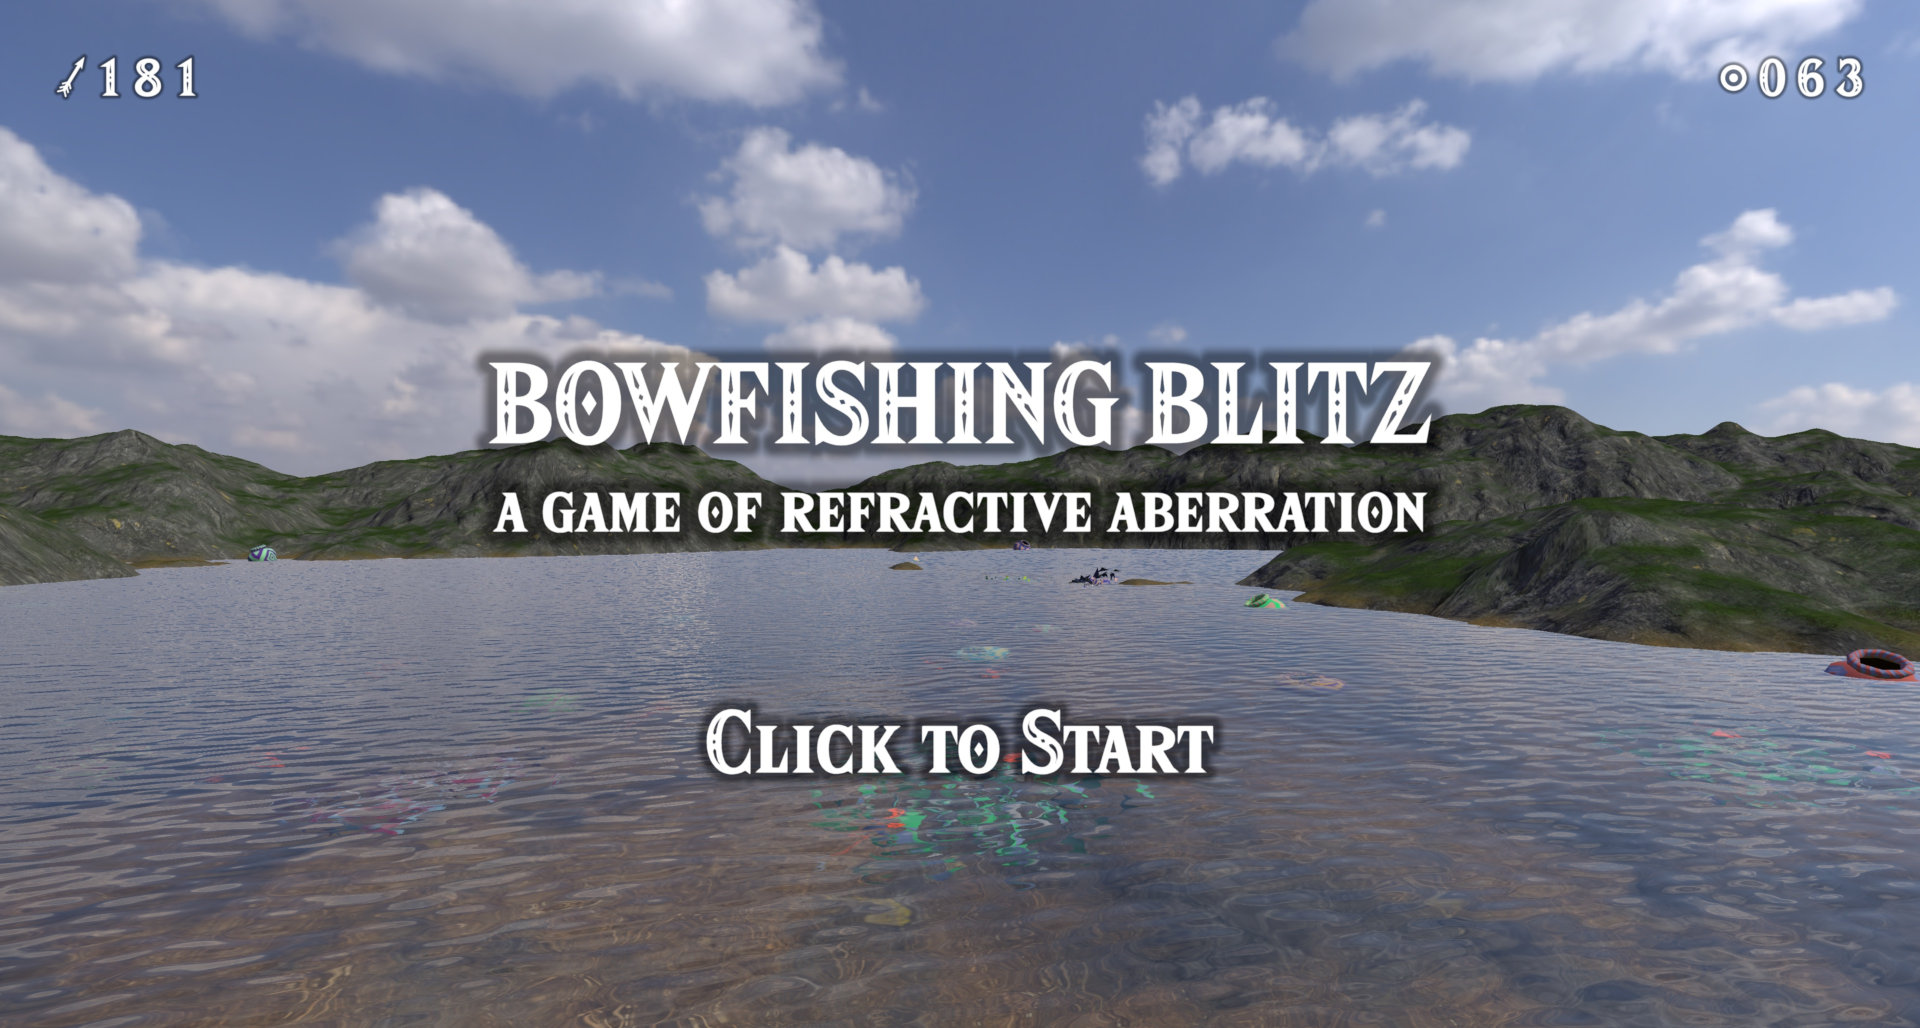
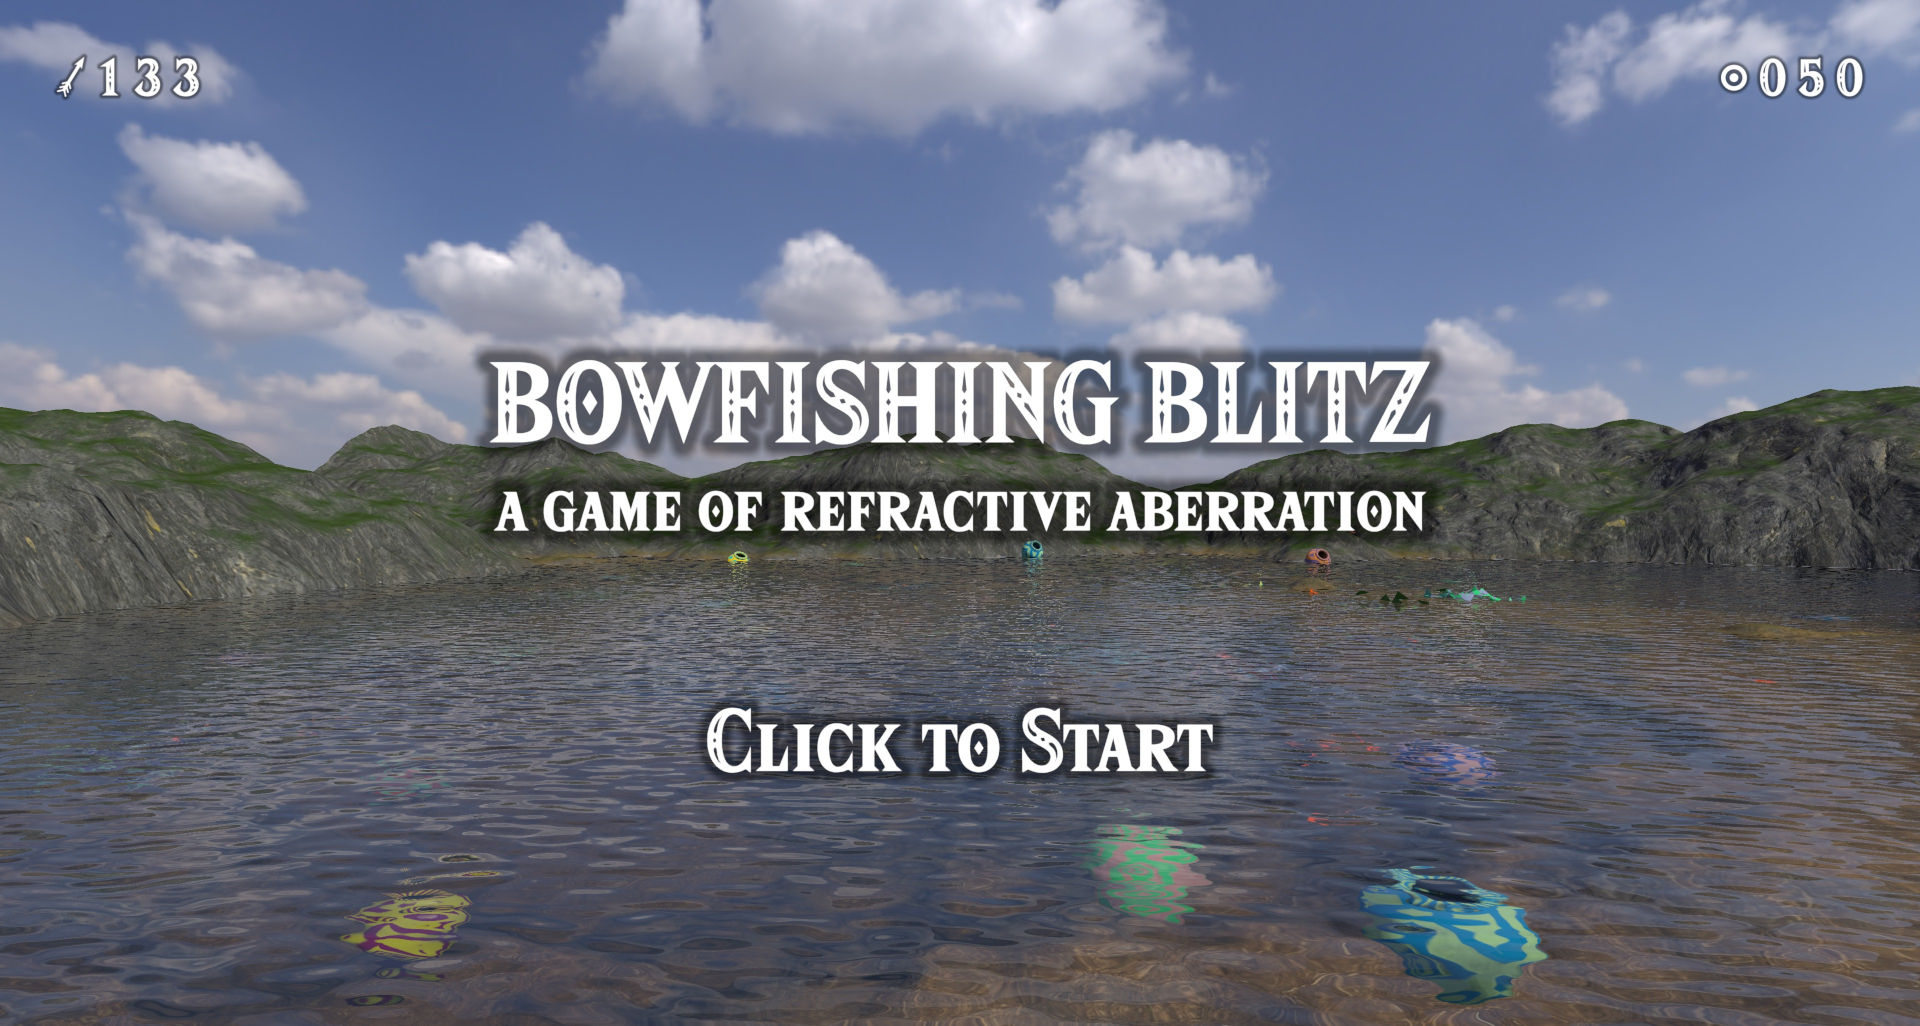
fix ripples and update README and screenshots for reflections

diff --git a/README.md b/README.md
@@ -145,38 +145,43 @@ pow(world_depth / virt_depth, 2) == (pow(ior, 2) - 1) * pow(horiz_dist / (cam_he
 which we can solve to find `virt_depth`. 
 
 Since the analytic solution to this quartic equation is extremely messy, to find `virt_depth` in shader code,
-we approximate a solution numerically.
-Since our equation above is already in the form of a convergent fixed point,
-we can use iterated evaluation starting from a crude initial estimate to approximate the solution.
-Defining `depth_ratio = world_depth / virt depth` and letting `ior = 1.33` (water's index of refraction) gives us the following function:
+we approximate a solution numerically using Newton's method,
+which converges in 4 iterations for points within 500 times the camera height (tested with `bin/test-refract`).
+Letting `ior = 1.33` (water's index of refraction) gives us the following function:
 
 ```wgsl
-fn virtual_depth(horiz_dist: f32, cam_height: f32, world_depth: f32) -> f32 {
-    // Initial estimate found by fitting a simple curve in Desmos
-    let x = horiz_dist / (world_depth + 3 * cam_height);
-    let init_ratio = 1.33 * (x * x + 1);
+fn apparent_depth(dist: f32, eye_height: f32, world_depth: f32) -> f32 {
+    let d = abs(world_depth);
+    let h = eye_height;
+    let x = dist;
 
-    // Iterate the refraction equation to converge on the fixed point
-    // 4 iterations gets close enough to the true value to look extremely convincing
-    var depth_ratio: f32 = init_ratio; 
-    var oblique = horiz_dist / (abs(world_depth) / depth_ratio  + cam_height);
-    depth_ratio = sqrt(0.77 * oblique * oblique + 1.77);
-    oblique = horiz_dist / (abs(world_depth) / depth_ratio + cam_height);
-    depth_ratio = sqrt(0.77 * oblique * oblique + 1.77);
-    oblique = horiz_dist / (abs(world_depth) / depth_ratio + cam_height);
-    depth_ratio = sqrt(0.77 * oblique * oblique + 1.77);
-    oblique = horiz_dist / (abs(world_depth) / depth_ratio + cam_height);
-    depth_ratio = sqrt(0.77 * oblique * oblique + 1.77);
-
-    // return 
-    return depth / ratio;
+    // starting point in correct bucket
+    let oi = dist / (d * 0.01 + eye_height);
+    var ratio: f32 = sqrt(0.777 * oi * oi + 1.777);
+    // use newton's method to find apparant depth ratio
+    for (var i = 0; i < 4; i++) {
+        let q = ratio;
+        let od = d + q * h;
+        let o = q * x / od;
+        let Do = x * d / od / od;
+        let r = sqrt(0.777 * o * o + 1.777);
+        let Dr = 0.777 * o * Do / r;
+        ratio = q - (r - q) / (Dr - 1);
+    }
+    return world_depth / ratio;
 }
 
-fn refracted_virt_pos(world_pos: vec3f, water_height: f32) -> vec3f {
-    // camera is a uniform
-    let cam_dist = length(world_pos.xy - camera.world_pos.xy);
-    let virt_depth = virtual_depth(cam_dist, camera.world_pos.z - water_height, world_pos.z - water_height);
-    return vec3f(world_pos.xy, water_height + virt_depth);
+fn clip_point(world_pos: vec3f) -> vec4f {
+    var z = world_pos.z;
+    if PATH_ID == PATH_REFLECT {
+        z = -z;
+    } else if PATH_ID == PATH_REFRACT {
+        let cam_dist = length(world_pos.xy - camera.eye.xy);
+        z = apparent_depth(cam_dist, camera.eye.z, world_pos.z);
+    }
+
+    let virt_pos = vec4f(world_pos.xy, z, 1.0);
+    return camera.matrix * virt_pos;
 }
 ```
 
@@ -188,10 +193,17 @@ then discarding the above-water part of the triangle in the fragment shader.
 In order to perform deferred lighting calculations for a refracted image,
 we need to recover the world-space position of each fragment, along with the optical path direction where it meets the fragment.
 We start with the usual technique of passing the pixel position and depth-buffer value through the inverted camera matrix,
-recovering the virtual position of the point.
-While it would be possible to calculate the fragment's world-space position using a single iteration of the virtual depth equation above,
-this game uses the simpler technique of storing the ratio between world-space and virtual depths in a gbuffer
-(which also prevents the propagation of numerical error in calculating the virtual position).
+recovering the virtual position of the point and the direction the path leaves the camera.
+We can then use Snell's Law to recover the direction where the path meets the point,
+then use those two directions of to find the point's worldspace depth.
+
+```wgsl
+let virt_pos = (camera.inv_matrix * clip_pos).xyz;
+let look_dir_above = normalize(virt_pos - camera.eye);
+let look_dir_below = normalize(refract(look_dir_above, vec3f(0.0, 0.0, 1.0), 0.75));
+let depth_adj = (look_dir_below.z / look_dir_above.z) * (length(look_dir_above.xy) / length(look_dir_below.xy));
+let world_pos = vec3f(virt_pos.xy, depth_adj * virt_pos.z);
+```
 
 By using the techniques above and applying some simple lighting, we end up with a refracted image of underwater geometry
 (note how further-away objects appear flatter as the angle of incidence becomes shallower).
@@ -241,6 +253,7 @@ We can then apply the camera matrix to this point,
 taking the xy coordinates to get a point on the underwater image to sample.
 For small ripples, this tends to be quite close to water's pixel,
 minimizing the chance of going off-screen.
+
 ```wgsl
 let refr_point_virt = water_world_pos + uw_dist_planar * refr__dir_virt; // simple parallax mapping
 let refr_point_clip = camera.matrix * vec4f(refr_point_virt, 1.0);
@@ -249,8 +262,9 @@ let refr_point_uv = vec2f(0.5, -0.5) * (refr_clip.xy / refr_clip.w) + 0.5;
 let trans_color = textureSampleLevel(water_image_buf, water_sampler, refr_point_uv, 0.0).xyz;
 ```
 
-Combining this transmitted colour with the reflected colour (in this case, sampled from a skybox)
-using a Fresnel factor gives us the fragment's final colour as seen by the camera.
+Combining this transmitted colour with the reflected colour
+(also rendered using a virtual space method, then distorted simillarly to the refracted image)
+according to a Fresnel factor gives us the fragment's final colour as seen by the camera.
 Using the same capture as the underwater image above, this gives us the following final frame.
 
 ![rendered image with ripples](./doc/rippled-img.jpg)
